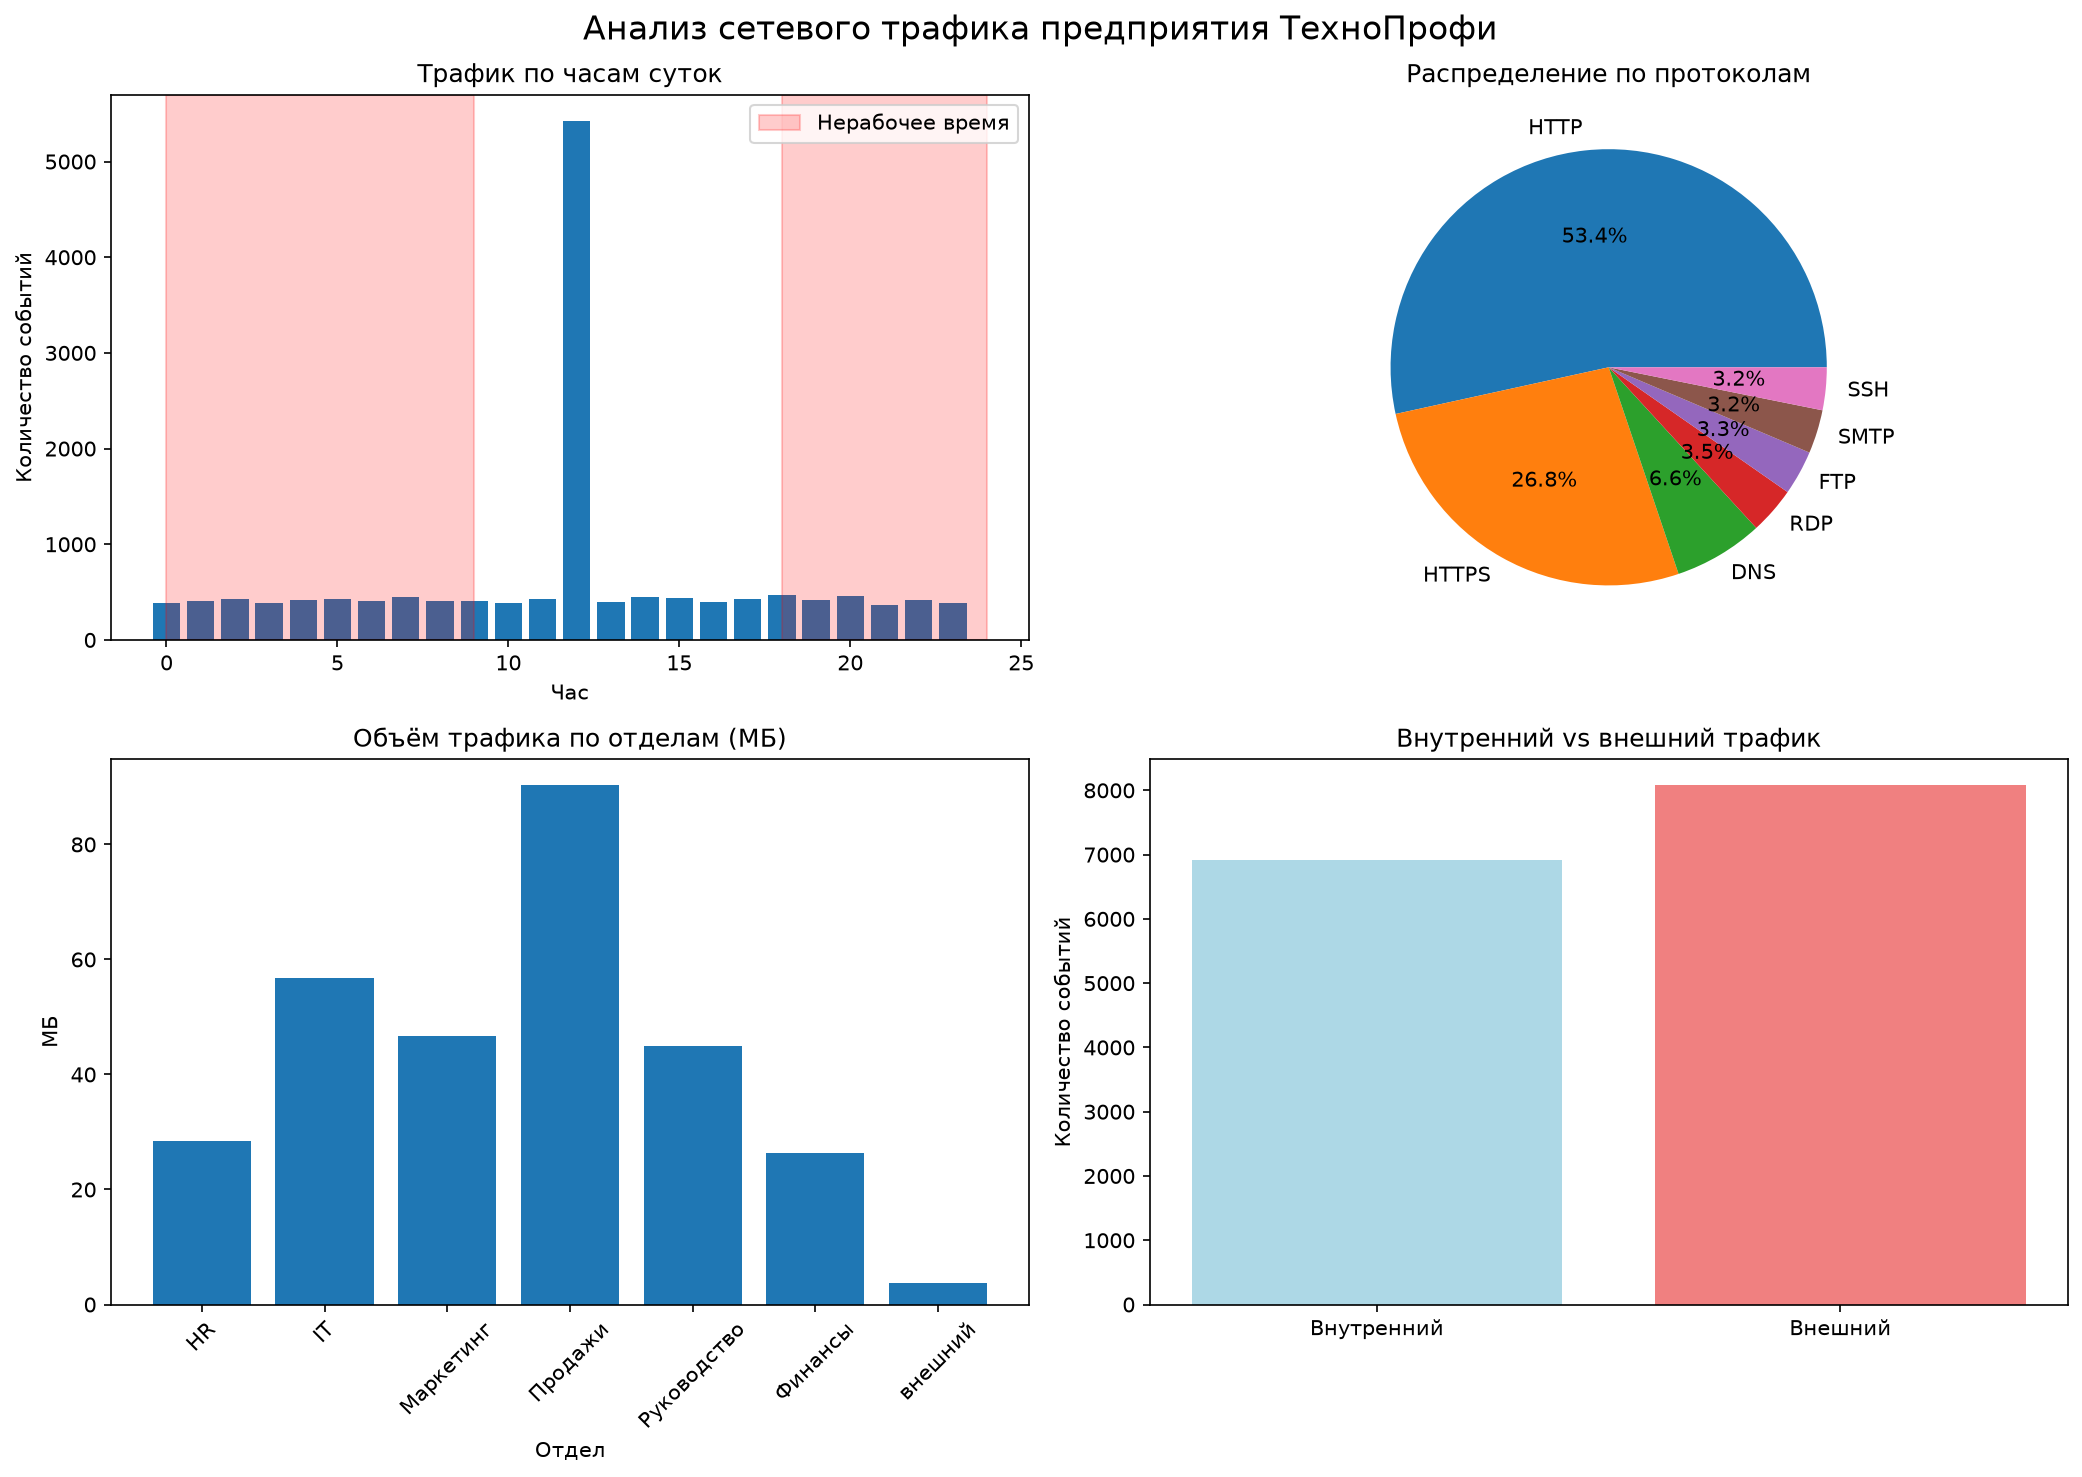
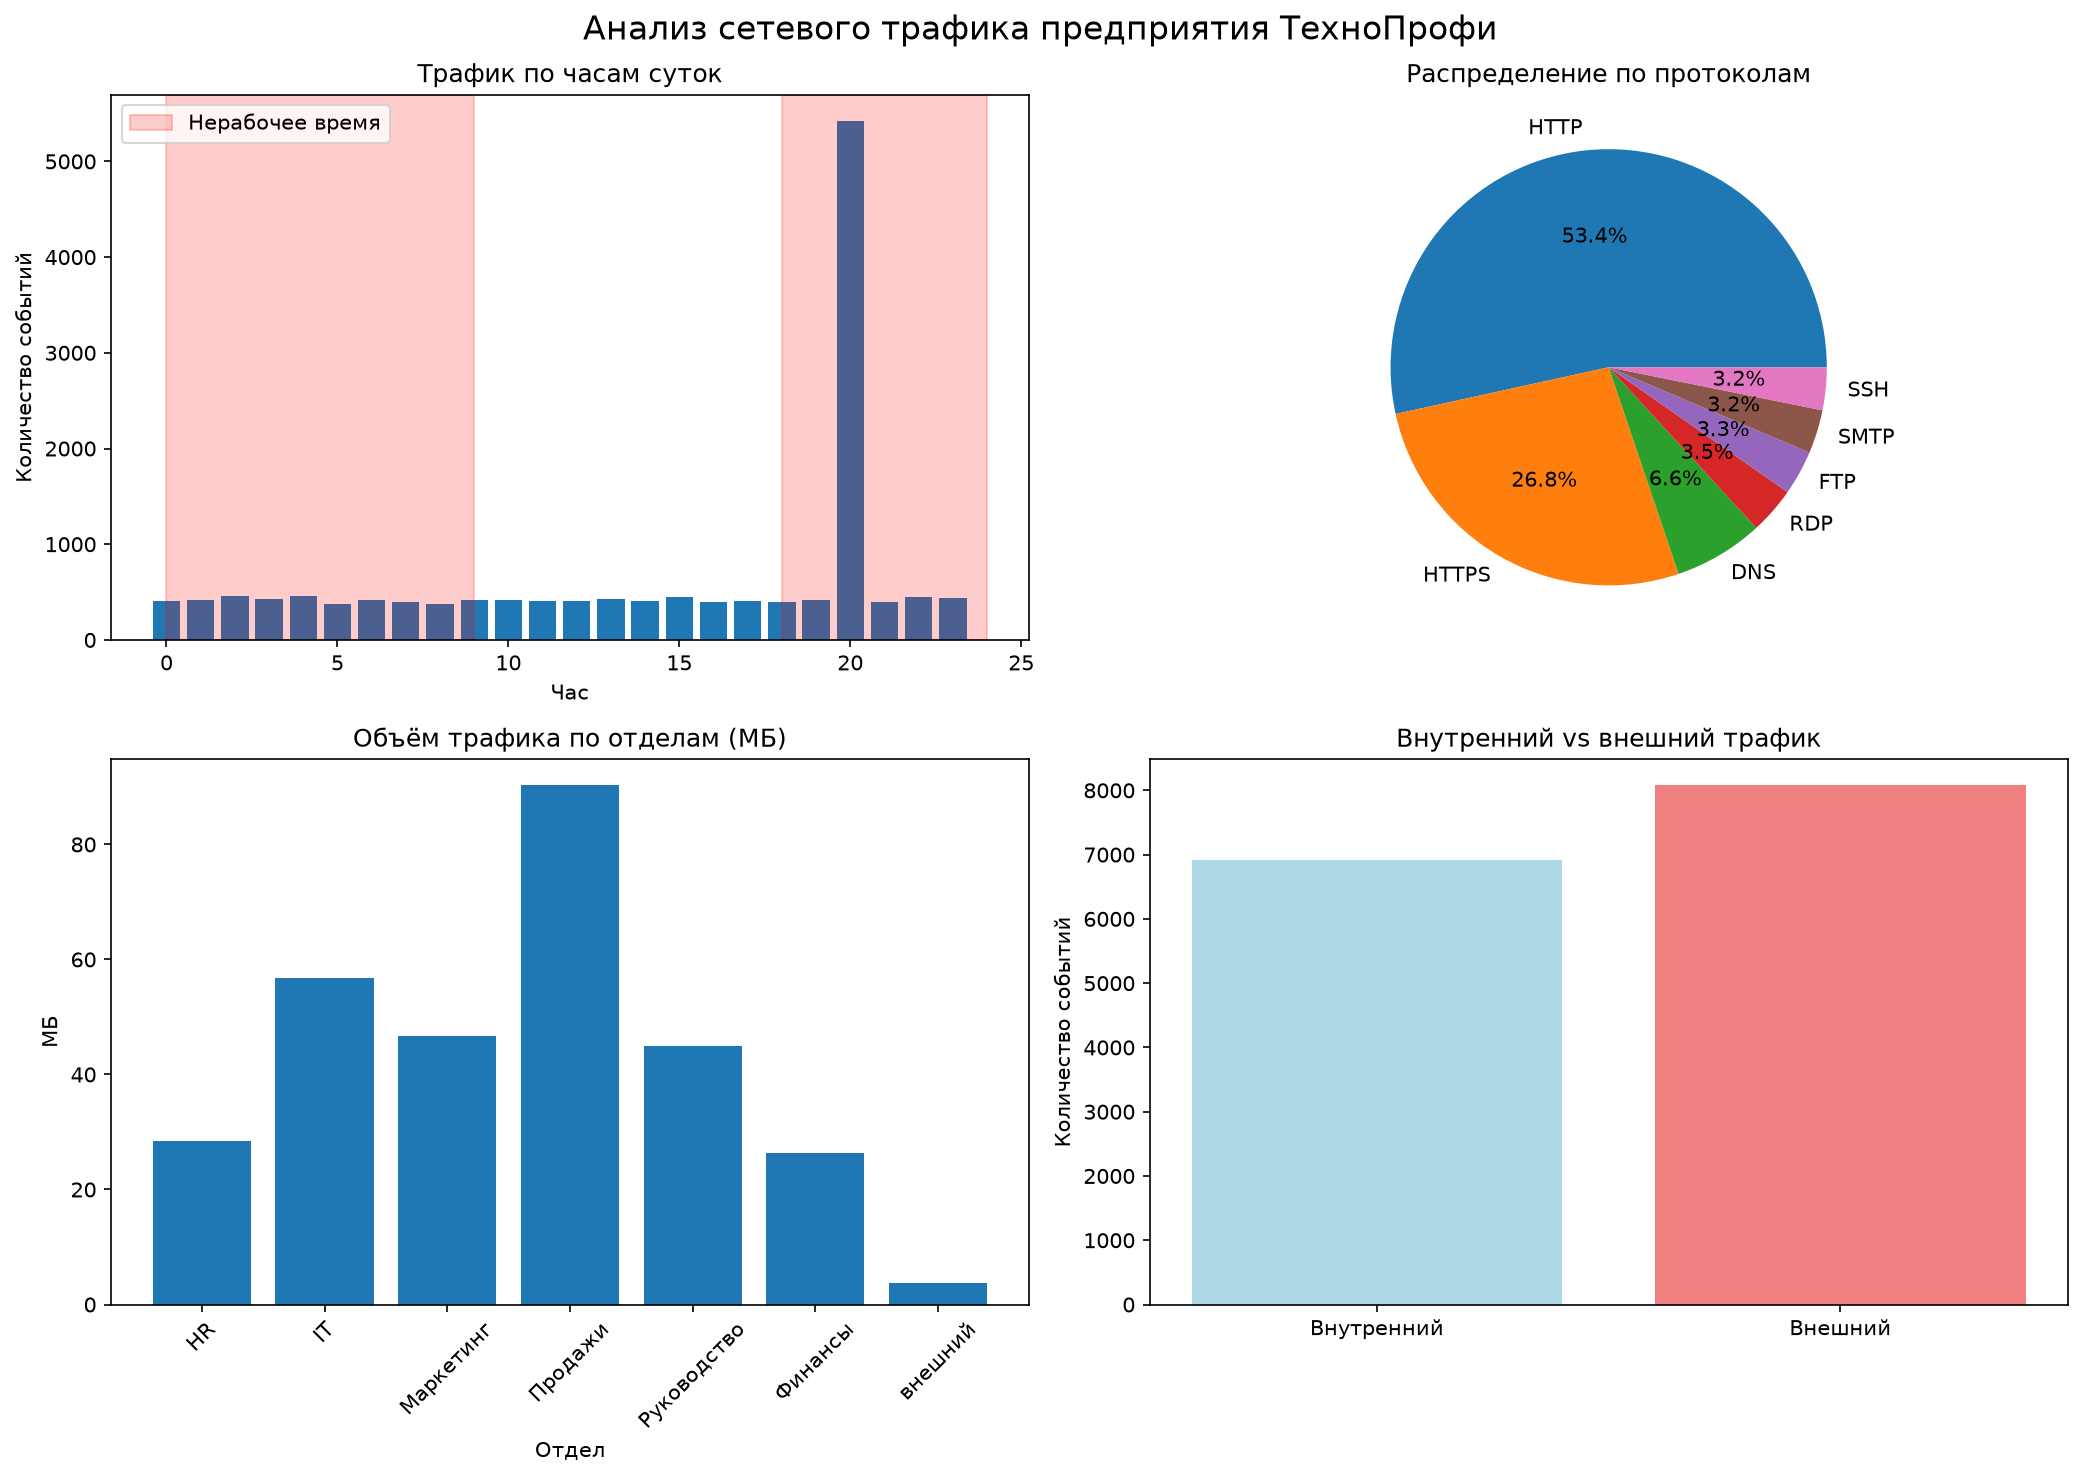
Аутенфикация биометрией

Changed region(s): [[0.3434, 0.0623, 0.4995, 0.4049], [0.2498, 0.0623, 0.281, 0.4049], [0.0624, 0.0623, 0.1873, 0.1246]]

diff --git a/BiometryIntegration.py b/BiometryIntegration.py
@@ -1,0 +1,32 @@
+import random
+
+class BiometricAuthModule:
+    """Адаптер к внешней системе биометрической аутентификации.
+
+    В реальности provider — это SDK сканера (FIDO2/WebAuthn, Face ID,
+    отпечаток). Здесь — заглушка, возвращающая score 0..1.
+    """
+    def __init__(self, analyzer, threshold=0.85):
+        self.analyzer = analyzer
+        self.threshold = threshold
+
+    def _mock_scan(self, user_id):
+        """Имитация сканирования: степень совпадения 0..1."""
+        return random.uniform(0, 1)
+
+    def authenticate(self, user_id):
+        score = self._mock_scan(user_id)
+        ok = score >= self.threshold
+        result = 'SUCCESS' if ok else 'DENIED'
+
+        # запись в журнал аудита
+        self.analyzer.log_audit_event(
+            user=user_id, action='BIOMETRIC_AUTH',
+            result=result, details=f'score={score:.2f}')
+
+        # оповещение при отказе
+        if not ok:
+            self.analyzer.send_alert(
+                f'Биометрия не пройдена: {user_id} (score={score:.2f})',
+                level='WARNING')
+        return ok

diff --git a/main.py b/main.py
@@ -1,4 +1,5 @@
 from NetworkTrafficAnalyser import NetworkTrafficAnalyzer
+from BiometryIntegration import BiometricAuthModule
 
 def main():
     """
@@ -9,15 +10,17 @@ def main():
     print("Учебный кейс для дисциплины 'Обеспечение ИБ бизнес-процессов'")
     print("="*70)
 
-    # Инициализация анализатора
+    # Инициализация
     analyzer = NetworkTrafficAnalyzer(company_name="ТехноПрофи")
+    scanner = BiometricAuthModule(analyzer=analyzer)
+
+    scanner.authenticate(user_id=123)
 
     # Генерация имитационных данных
     traffic_data = analyzer.simulate_traffic_data(hours=24, users=50)
     analyzer.inject_ddos_burst()
 
     # Анализ трафика
-    analyzer.init_audit_log()
     analyzer.analyze_traffic_patterns()
 
     # Обнаружение нарушений

diff --git a/NetworkTrafficAnalyser.py b/NetworkTrafficAnalyser.py
@@ -22,7 +22,7 @@ class NetworkTrafficAnalyzer:
     """
     Класс для анализа сетевого трафика предприятия
     """
-    def __init__(self, company_name="ТехноПрофи"):
+    def __init__(self, company_name="ТехноПрофи", path="audit.log"):
         """
         Инициализация анализатора трафика
         Параметры:
@@ -46,6 +46,8 @@ class NetworkTrafficAnalyzer:
         'ddos_attack': {'threshold': 1000, 'window_minutes': 1},
         'data_exfiltration': {'threshold': 524288000, 'window_minutes': 60} # 500 МБ
         }
+        self.init_audit_log(path=path)
+
         print(f"Инициализирован анализатор трафика для: {company_name}")
         print(f"Время запуска: {datetime.now()}")
 
